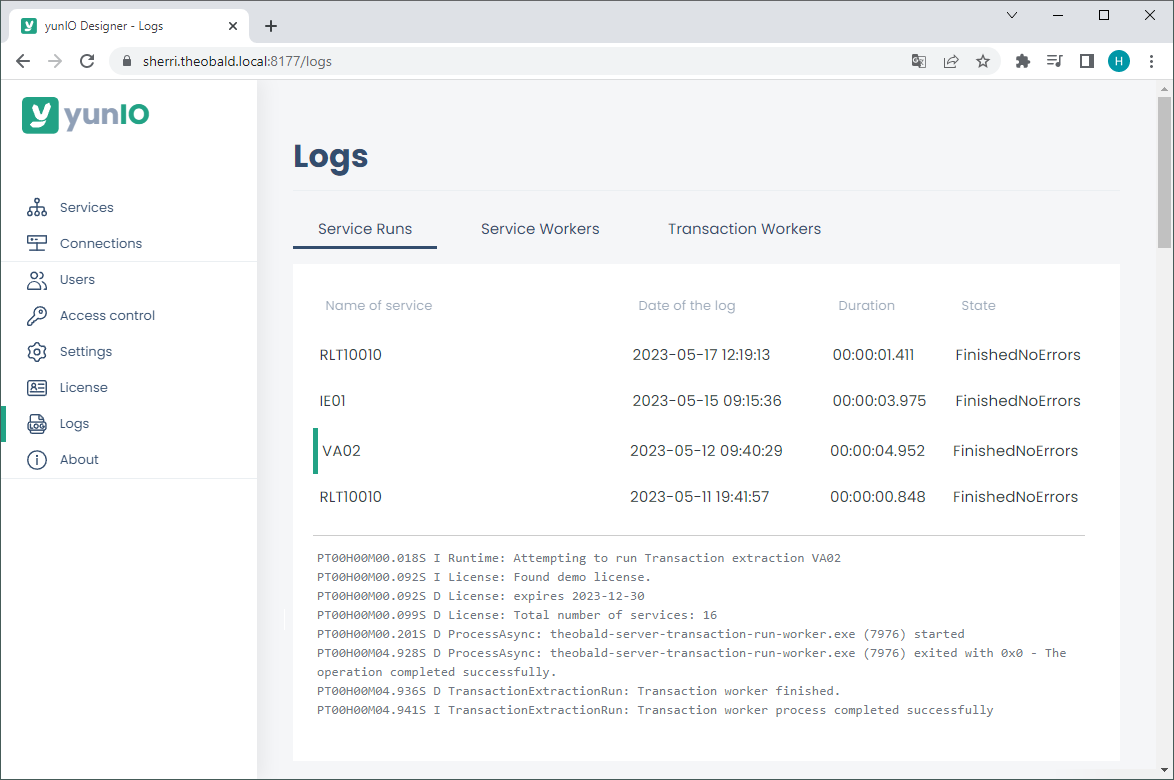
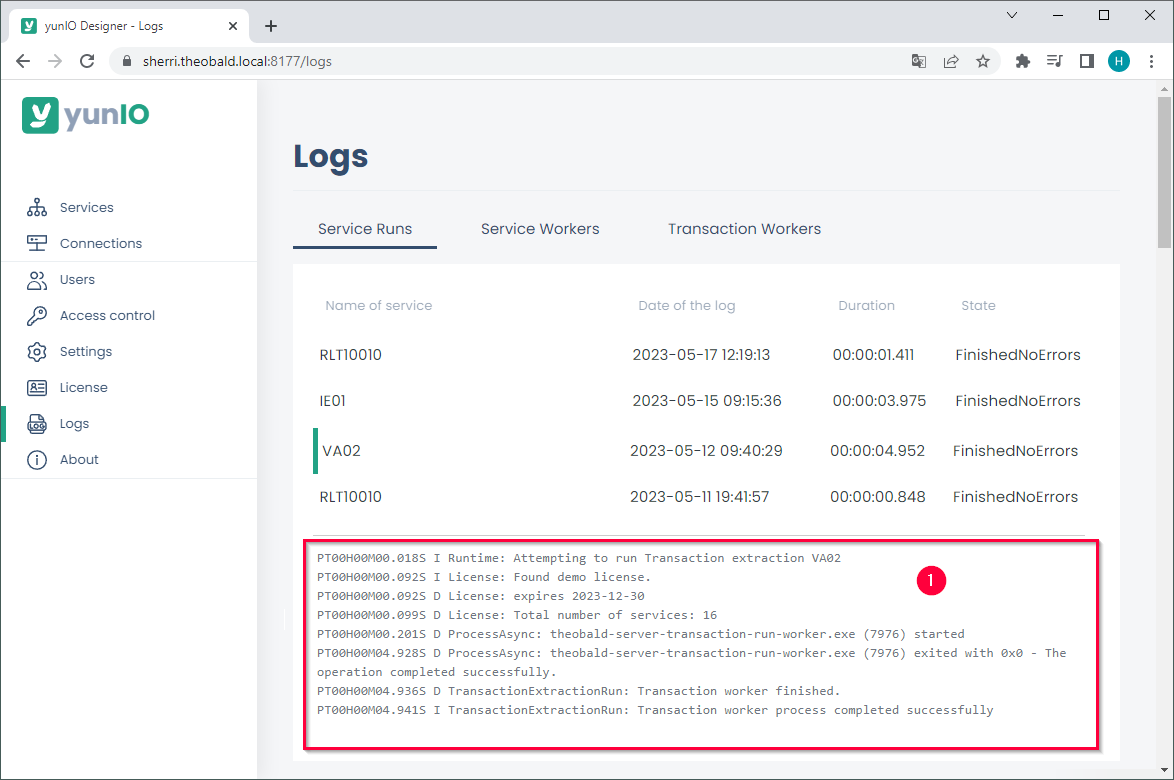
new section in Log menu

Changed region(s): [[0.2453, 0.6769, 0.9506, 0.9846]]

diff --git a/content/_en/yunio/logs.md b/content/_en/yunio/logs.md
@@ -17,10 +17,10 @@ The following section contains information on the server and transaction logs cr
 ### Display Logs
 The logs are located in the *Logs* section of the yunIO Designer.
 There are 3 types of Logs:
-- *Service Runs:* Displays a list of service runs.
-- *Service Workers:* Displays logs of service worker processes. For each TCP connection, a service worker process is started. 
+- **Service Runs:** Displays a list of the latest service runs, including the status of the service run.
+- **Service Workers:** Displays logs of service worker processes. For each TCP connection, a service worker process is started. 
 It receives the HTTP request, executes the service, and sends the response to the caller.
-- *Transaction Workers:* Displays logs of [Transaction](./transactions) services. 
+- **Transaction Workers:** Displays logs of [Transaction](./transactions) services. 
 When running Transactions services, a transaction worker process is started. 
 It executes the service and produces the response, which is then forwarded to the caller by the service worker.
 
@@ -32,8 +32,9 @@ The list consist of the following columns:
 - Duration of the service run
 - State of the service run (*Running*, *FinishedErrors*, *FinishedNoErrors*)
 
-Click on a service run to display the corresponding [service worker log](#service-workers-and-transaction-workers) at the bottom of the menu.
-![yunIO-Logs](/img/content/yunio/yunIO-Logs.png){:class="img-responsive"}
+Click on a service run to display the corresponding extraction log at the bottom of the menu (1).
+
+![yunIO-Logs](/img/content/yunio/yunIO-Run-Logs.png){:class="img-responsive"}
 
 ### Service Workers and Transaction Workers
 
@@ -41,7 +42,8 @@ The logs of the service worker and transaction worker consist of two sections:
 - timestamps of the logs (1)
 - content of the logs (2)
 
-Click on a timestamp to open the corresponding logs.<br>
+Click on a timestamp to open the corresponding logs.
+
 ![yunIO-Logs](/img/content/yunio/yunIO-Logs.png){:class="img-responsive"}
 
 #### How to Read Worker Logs

diff --git a/content/_de/yunio/logs.md b/content/_de/yunio/logs.md
@@ -13,12 +13,12 @@ old_url: /Xtract-Universal-DE/default.aspx?pageid=server
 
 Dieser Abschnitt enthält Informationen über die Server-Logs und Transaktions-Logs, die von yunIO erstellt werden.<br>
 
-### Logs anzeigen lassen
+### Logs Anzeigen
 Öffnen Sie die Logs unter dem Menüpunkt *Logs*.
 Es gbt 2 Arten von Logs:
-- *Services:* Zeigt Logs der Service Worker-Prozesse an. Für jede TCP-Verbindung, wird ein Service Worker-Prozess gestartet.
+- **Services:** Zeigt Logs der Service Worker-Prozesse an. Für jede TCP-Verbindung, wird ein Service Worker-Prozess gestartet.
 Der Service Worker empfängt die HTTP-Anfrage, führt Services aus und sendet die HTTP-Antwort and den Aufrufer.
-- *Transactions:* Zeigt Logs von [Transaktion-Services](./transactions) an.
+- **Transactions:** Zeigt Logs von [Transaktion-Services](./transactions) an.
 Wenn Sie einen Transaktion-Service ausführen, wird ein Worker-Prozess für Transaktionen gestartet.
 Der Worker-Prozess führt die Services aus und erstellt die HTTP-Antwort, die dann vom Service Worker an den Aufrufer weitergegeben wird.
 
@@ -29,7 +29,7 @@ Das Log-Menü besteht aus zwei Abschnitten:
 Klicken Sie auf einen Zeitstempel, um die dazugehörigen Logs anzuzeigen.<br>
 ![yunIO-Logs](/img/content/yunio/yunIO-Logs.png){:class="img-responsive"}
 
-### Logs lesen
+#### Worker-Logs lesen
 
 Ein Log-Eintrag hat folgendes Format: `Zeit | Typ | Quelle | Nachricht`. Beispiel:
 
